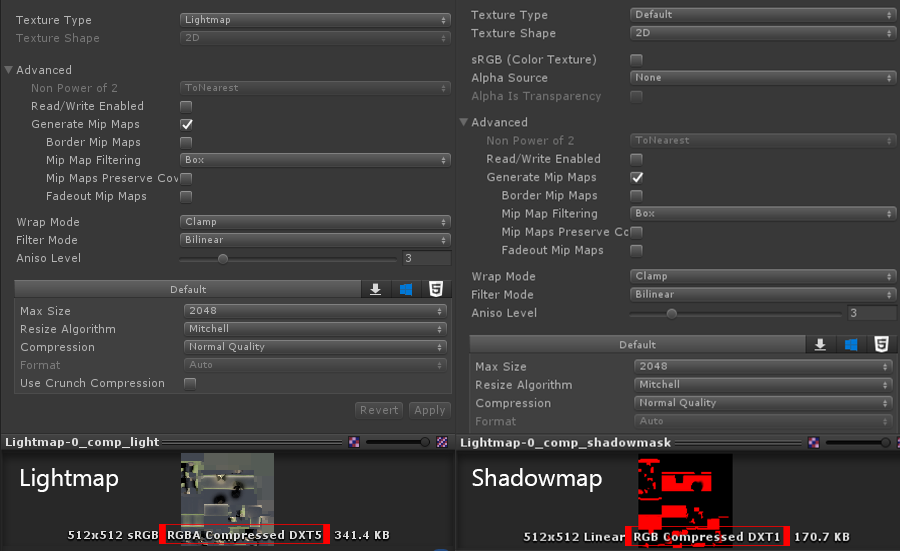
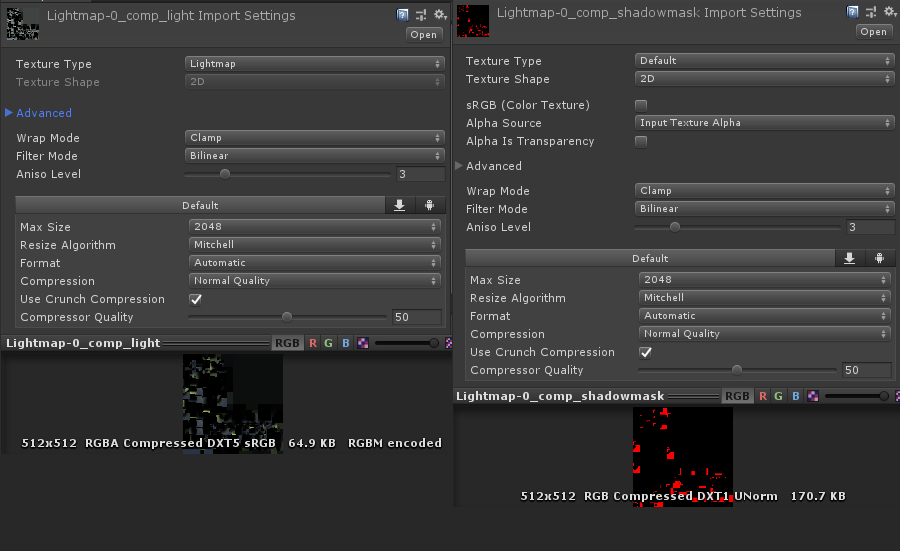
Updated Readme

diff --git a/README.md b/README.md
@@ -165,9 +165,21 @@ The following properties can be modified to change how the platform behaves:
 - **Move Time** - Time taken per movement period
 - **Move First** - Move before pausing / pause before moving (at start)
 
+- **Enable Bob** - For rotating platforms, allows the platform to bob up at down at a set interval (sine curve)
+- **Bob Vector** - Distance vector for the bobbing motion
+- **Bob Period** - Duration of a single bob phase
+- **Bob Offset** - Time offset to allow multiple different cycle repeat times
+
 Moving Platforms must also have a Mesh Collider component to work properly due to how the physics system works. It is recommended, but not required, to also have Mesh Renderer and Mesh Filter components so that the moving platform physics bounds are visible in the game.
 
 Moving Platforms can also serve as groups, holding other GameObjects inside them such as gems, power-ups, and other collision meshes. Keep in mind that nesting many objects inside moving platforms will increase physics solve complexity and can reduce performance.
+
+## Spline Elevators
+
+By changing the Elevator Mover mode to *Spline* you can set up a bezier curve for the mover to follow. You can use the Spline Speed to determine how fast the mover traverses the spline and the Keep Orientation to prevent the mover from rotating during movement. The *Spline GO* section is where you will define your root spline object.
+
+![image alt text](ReadmeImages/image_16.png)
+To create a new spline, create an empty GameObject and add the Spline Drawer component to it. Then add at least 4 additional empty GameObjects as children of that SplineDrawer object, you should see a blue sphere appear. Move the child objects around and you will see a spline form, this will be the path that your elevator mover takes. Set the *Spline GO* to the Spline Drawer object and any exported map should have the Elevator Mover trace that spline path.
 
 ## Basher
 
@@ -180,12 +192,15 @@ The Basher prefab is a special Moving Platform used to knock mables off the map.
 *surface.lowfriction* - This is the Ice surface: anywhere this material is used will cause the marble to slide around. This surface is straightforward in use and does not need any special consideration.
 
 *surface.gravity* - This is the Gravity surface: anywhere this material is used will cause gravity to shift, such that the surface area touched is facing upward. The actual implementation of this surface gives some leniency to ‘touch’ and thus the area affected while in contact is larger than the actual contact area. For this reason it is highly suggested not to use this material on small objects with complex surfaces over a small area as gravity is likely to rapidly shift as the game tries to determine which way should be up based on many different points.
+
+*Lava.crush* - Instantly kills marble on contact. This is a sub-surface of the Crusher object in official levels but can be used as a normal surface as well.
+
 <a name="lightmaps"/>
 # **Lightmap Settings**
 
 The level file format allows encoding of lightmaps to add fantastic visual fidelity to custom levels. With this feature comes the possibility for extremely large file sizes if not properly checked. Due to this the MIU Level Kit will enforce lightmap texture compression, ensuring that level files are as small as possible. Due to some engine limitations, this process can't be completely automated and will require some tweaking to get working correctly. This section is meant to explain what compression type the Level Kit requires and how to achieve it.
 
-If your lightmap settings have been configured correctly, when you generate lighting for a level you should have two new textures - a Lightmap and a Shadowmap. Lightmaps create the color values of the lighting, and the shadowmap acts as a mask, telling the lighting where to use the lightmap texture on the geometry. These two textures need different features (Lightmap needs transparency values). Due to this we have found that the best 'small footprint' textures to use that are *Unity Version Independent* are **DTX1 Compressed** for Lightmap and **DTX5 Compressed** for Shadowmap.
+If your lightmap settings have been configured correctly, when you generate lighting for a level you should have two new textures - a Lightmap and a Shadowmap. Lightmaps create the color values of the lighting, and the shadowmap acts as a mask, telling the lighting where to use the lightmap texture on the geometry. These two textures need different features (Lightmap needs transparency values). Due to this we have found that the best 'small footprint' textures to use that are *Unity Version Independent* are **DTX5 Compressed** for Lightmap and **DTX1 Compressed** for Shadowmap, both with Crunch compression enabled.
 
 ![image alt text](ReadmeImages/image_14.png)
 
@@ -196,5 +211,3 @@ The image above shows how to achieve this texture compression setting in Unity 2
 ![image alt text](ReadmeImages/image_15.png)
 
 Lightmapping imported models from external 3D applications is supported, but it is important to ensure that *Generate Lightmap UVs* is checked in the model import settings to ensure smooth lightmapping data.
-
-An continually updated version of this document can be found [here](https://docs.google.com/document/d/1SNe0OEO1ypB6fZpyIw2OF8alsOiLxj-6cVrjkIkLBes).
